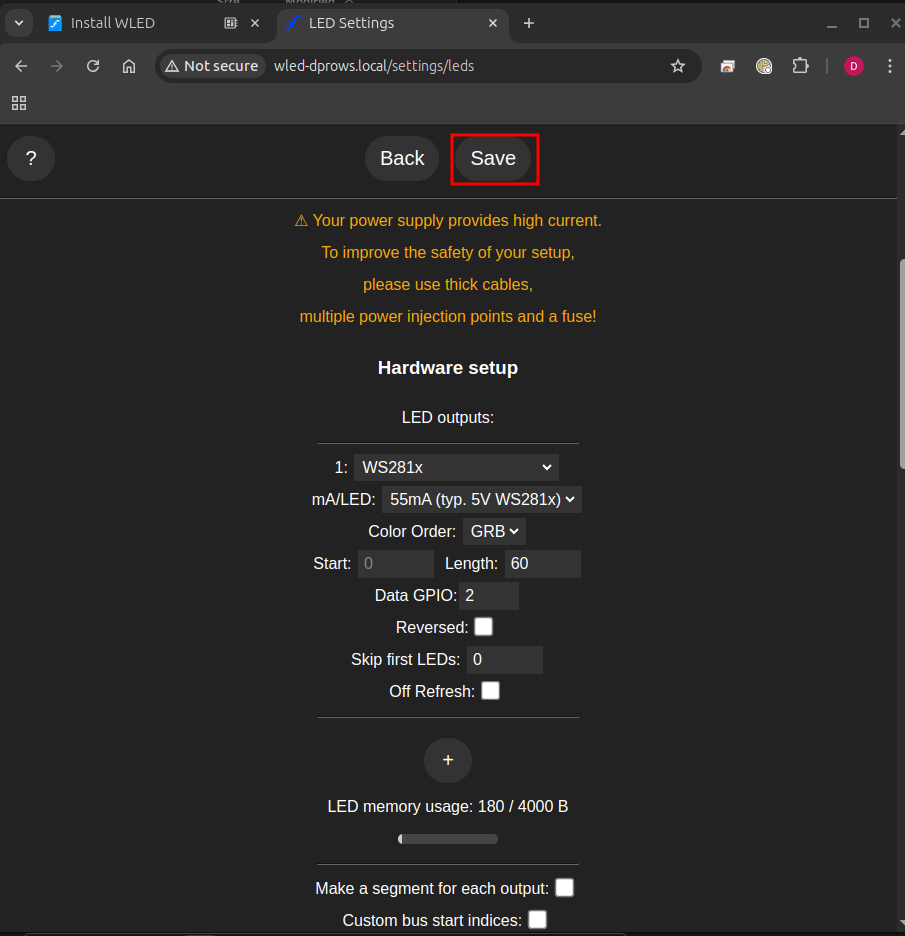
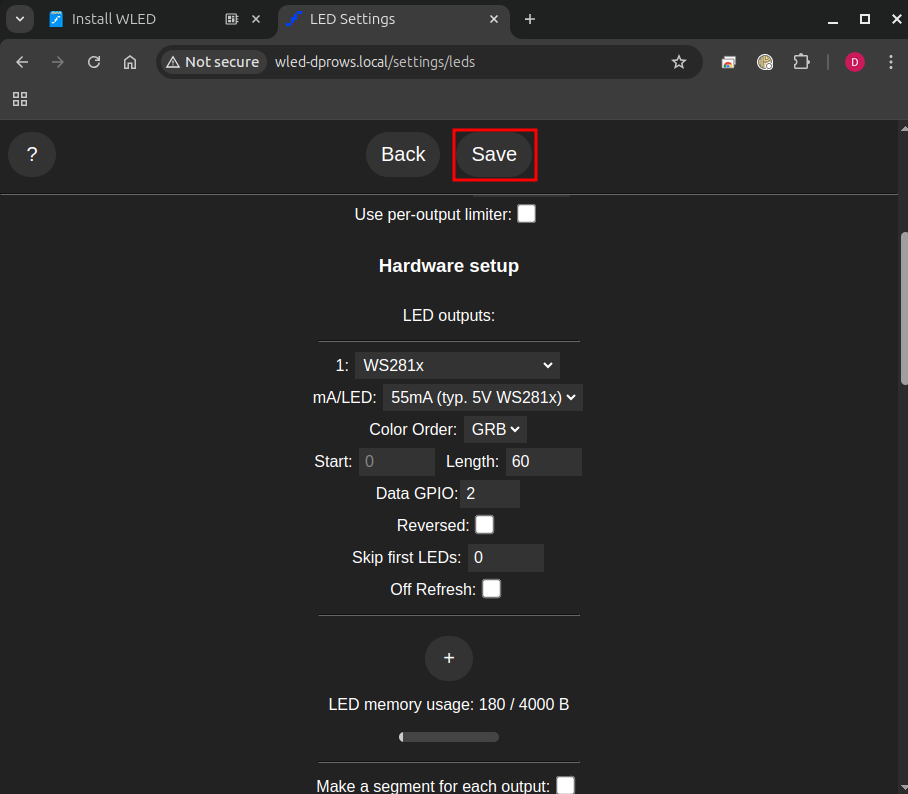
Added Assemble Parts, At Home and modified the Install and README

diff --git a/Assemble_Parts.md b/Assemble_Parts.md
@@ -1,0 +1,20 @@
+# Connect the parts together
+
+1. Strip the power wires from the LED strip.
+    - ![power_leads](./images/power_leads.jpg)
+    - ![power_leads_stripped](./images/power_leads_stripped.jpg)
+2. Take the power adapter and unscrew the screws.
+    - ![power_adapter](./images/power_adapter.jpg)
+    - ![power_adapter_unscrewed](./images/power_adapter_unscrewed.jpg)
+3. Connect the Power Wires to the Power Adapter.
+    - Insert the stripped part of the white power wire into the negative (-) side of the power adapter and tighten the screw for that side.
+    - Insert the stripped part of the red power wire into the positive (+) side of the power adapter and tighten the screw for that side.
+    - ![power_leads_connected](./images/power_leads_connected.jpg)
+4. Connect the wire connector from the esp8266 board to the wire connector from the WS2812B LED Strip.
+    - ![wires](./images/wires.jpg)
+    - ![wires_connected](./images/wires_connected.jpg)
+5. Connect the power adapter to the power supply.
+    - ![power_connections](./images/power_connections.jpg)
+    - ![power_connected](./images/power_connected.jpg)
+
+Head back over to the [Main Page](./README.md) to continue.

diff --git a/Install_WLED.md b/Install_WLED.md
@@ -84,9 +84,8 @@
    - ![click_on_config](./images/click_on_config.png)
 3. Click "LED Preferences".
    - ![led_preferences](./images/led_preferences.png)
-4. Set `Maximum PSU Current:` to the Amperage of our Power Supply, which is `10000`mA.
+4. Set `Maximum PSU Current:` to the Amperage of our Power Supply, which is `5000`mA.
    - This will limit our power use to a safe amount within our power supply's limits.
-   - Note: this power supply is much larger than we need for the 3' LED strips we are using and we can ignore the high current warning, but pay attention to it if you are using a longer strip later.
    - ![set_amperage](./images/set_amperage.png)
 5. Verify `mA/LED"` is set to `55mA(typ. 5V WS281x)`.
    - If doing a project later, set it according to your LED's being used.
@@ -120,4 +119,4 @@
 
 For more details, visit the WLED Knowledge Base: [https://kno.wled.ge](https://kno.wled.ge)
 
-Enjoy your WLED-powered lighting setup!
+Head back over to the [Main Page](./README.md) to continue.

diff --git a/README.md b/README.md
@@ -15,6 +15,10 @@ WLED - The first class of The Maker's Space at LBC on Monday, March 10, 2025
 
 [Install and Configure WLED on an ESP8266 NodeMCU](./Install_WLED.md)
 
+## Assemble the parts
+
+[Connect the parts together](./Assemble_Parts.md)
+
 ## It worked in class, what do I do when I get home?
 
 [How to connect to WLED when I get it home](./At_Home.md)

diff --git a/At_Home.md b/At_Home.md
@@ -15,3 +15,5 @@
      - ![saveandconnect](./images/saveandconnect.png)
 5. Connect your computer/phone to your home network.
 6. Navigate to `http://wled-{name}.local`.
+
+Return to the [Main Page](./README.md)
